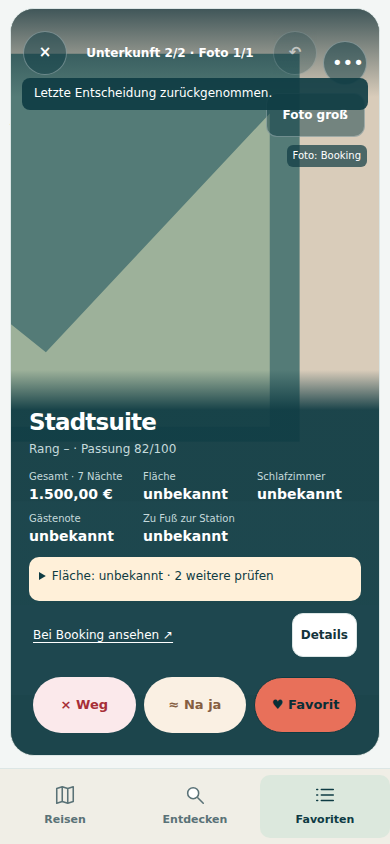
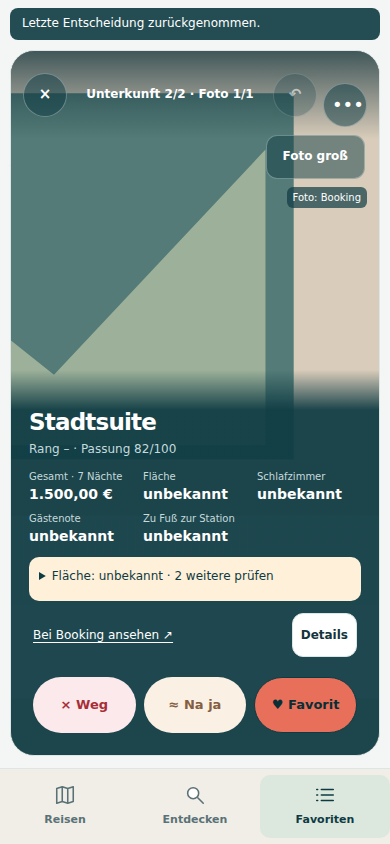
Improve mobile decision controls and photo actions

Changed region(s): [[0.0, 0.0, 0.9846, 0.4929]]

diff --git a/stay-workplace.js b/stay-workplace.js
@@ -24,7 +24,9 @@ async function viewDecisionPlace(arg){
   const tabs=el('div',{class:'actions','aria-label':'Entscheidungsgruppen'});
   const modeButtons=el('div',{class:'actions','aria-label':'Ansichten'},...['list','table','tinder'].map(key=>button({list:'Liste',table:'Tabelle',tinder:'Durchsehen'}[key],()=>{if(pending||review?.pending)return;mode=key;draw();})));
   const sorting=el('select',{'aria-label':'Entscheidungen sortieren',onchange:e=>{sortKey=e.target.value;draw();}},...['rang','preis','name','m2','schlafzimmer'].map(k=>el('option',{value:k},{rang:'Empfohlene Rangfolge',preis:'Gesamtpreis',name:'Name',m2:'Fläche',schlafzimmer:'Schlafzimmer'}[k])));
-  scope.append(el('a',{href:'#/reisen/'+r.etappe.reise_id},'← Zur Reise'),el('h2',{},r.etappe.ziel),el('p',{},fmtDate(r.etappe.anreise)+'–'+fmtDate(r.etappe.abreise)),tabs,modeButtons,el('label',{},'Sortieren nach',sorting),toolbar,status,content,el('div',{class:'actions'},reload,button('Woanders gebucht',()=>tripExternalBooking(r.etappe,()=>render())),button('Suche auffrischen',()=>tripRefresh(r.etappe)),button('Keiner passt',()=>{
+  const controls=el('div',{class:'decision-controls'}),sortLabel=el('label',{},'Sortieren',sorting);
+  controls.append(tabs,modeButtons,sortLabel,toolbar);
+  scope.append(el('a',{href:'#/reisen/'+r.etappe.reise_id},'← Zur Reise'),el('h2',{},r.etappe.ziel),el('p',{},fmtDate(r.etappe.anreise)+'–'+fmtDate(r.etappe.abreise)),controls,status,content,el('div',{class:'actions'},reload,button('Woanders gebucht',()=>tripExternalBooking(r.etappe,()=>render())),button('Suche auffrischen',()=>tripRefresh(r.etappe)),button('Keiner passt',()=>{
     const {body}=tripDialog('Andere Unterkunft finden');body.append(el('p',{},'Deine bisherigen Entscheidungen bleiben erhalten.'),button('Kriterien ändern und neu suchen',()=>tripStart(r.etappe)),button('Andere Tage als Variante suchen',()=>tripStart(r.etappe)));
   })));
   scope.append(tripPhotos(r.etappe.id,live));
@@ -57,8 +59,9 @@ async function viewDecisionPlace(arg){
   }
   function draw(){
     tabs.replaceChildren(...Object.entries(labels).map(([key,label])=>el('button',{type:'button','aria-pressed':group===key,onclick:()=>{if(pending||review?.pending)return;group=key;selected.clear();draw();}},`${label} (${snapshot.treffer.filter(t=>t.status===key).length})`)));
+    modeButtons.querySelectorAll('button').forEach((b,i)=>b.setAttribute('aria-pressed',String(['list','table','tinder'][i]===mode)));
     const current=rows();undo.hidden=!lastBatch.length;toolbar.replaceChildren(button(selecting?'Auswahl schließen':'Auswählen',()=>{selecting=!selecting;selected.clear();draw();}),...(selecting?[button('Alle '+current.length+' auswählen',()=>{current.forEach(t=>selected.add(t.treffer_id));draw();}),el('span',{},selected.size+' ausgewählt')]:[]),...(selected.size?Object.entries(labels).filter(([key])=>key!==group).map(([key,label])=>el('button',{type:'button',onclick:()=>bulk(key)},'Auswahl zu '+label)):[]),...(selected.size?[el('button',{type:'button',disabled:selected.size<2||selected.size>4,onclick:()=>tripCompare(snapshot.treffer.filter(t=>selected.has(t.treffer_id)))},'Vergleichen (2–4)'),button('Lage vergleichen',()=>tripSelectionMap(snapshot.treffer.filter(t=>selected.has(t.treffer_id))))]:[]),undo);
-    if(mode!=='tinder'){scope.insertBefore(tabs,toolbar);scope.insertBefore(modeButtons,toolbar);}
+    if(mode!=='tinder'){controls.insertBefore(tabs,sortLabel);controls.insertBefore(modeButtons,sortLabel);}
     content.replaceChildren();scope.classList.toggle('tinder-mode',mode==='tinder');toolbar.hidden=mode==='tinder';
     if(mode==='tinder'){review.draw();content.append(review.node);}
     else if(mode==='table'){

diff --git a/style.css b/style.css
@@ -1006,3 +1006,20 @@ body:has(.tinder-mode) main.view{padding:8px 10px;}
 .stay-photos{margin:16px 0}.stay-photos h4{margin:8px 0}.stay-photo-strip{display:flex;gap:8px}.stay-photo-strip figure{margin:0;min-width:0;flex:1;max-width:180px}.stay-photo-strip figure>button:first-child{padding:0;width:100%;overflow:hidden;border-radius:12px}.stay-photo-strip img{display:block;width:100%;height:100px;object-fit:cover}.stay-photo-strip figure>button:last-child{font-size:12px;padding:8px 4px;width:100%}.photo-file-input{display:none}.stay-photo-viewer img{display:block;max-width:100%;max-height:75dvh;object-fit:contain;margin:auto}.past-stays{margin-top:22px}.past-stays>summary{font-size:18px;font-weight:700;padding:16px;border-radius:14px;background:#e5eeeb;cursor:pointer}.past-stays .trip-stage{margin-top:12px}.booking-note{white-space:pre-wrap;overflow-wrap:anywhere}
 
 .stay-photos .actions{display:flex;flex-wrap:wrap;gap:8px}.stay-photos .actions button{flex:1;min-width:0;font-size:13px;padding:10px}
+
+/* W89: compact decision controls; feedback stays outside photo controls. */
+.decision-controls{display:grid;grid-template-columns:minmax(0,1fr) auto;gap:6px 8px;margin:12px 0}
+.decision-controls>[aria-label]{grid-column:1/-1;margin:0}
+.decision-controls>label{display:flex;align-items:center;gap:6px;min-width:0;margin:0;font-size:12px}
+.decision-controls>label select{flex:1;width:0;min-width:0;min-height:44px;margin:0;padding:6px;font-size:13px}
+.decision-controls>.actions:not([aria-label]){margin:0;align-self:center}
+.decision-controls>.actions:not([aria-label]):has(button:nth-child(3)){grid-column:1/-1}
+.decision-controls button{min-height:44px}
+.decision-controls [aria-label="Ansichten"] button[aria-pressed="true"]{background:#0e3b43;color:white;border-color:#0e3b43}
+.decision-place>p[role="status"]:empty{display:none}
+.decision-place>h2{margin:6px 0 2px}
+.decision-place>h2+p{font-size:13px;margin:0 0 6px}
+.tinder-mode .review-message:not(:empty){position:static;flex:0 0 auto;margin:0 0 6px;padding:8px 12px;pointer-events:none;z-index:auto}
+.stay-photo-strip figure{position:relative}
+.stay-photo-strip figure>.photo-remove:last-child{position:absolute;top:4px;right:4px;width:44px;height:44px;min-height:44px;padding:0;border-radius:50%;background:#0e3b43e8;color:white;border:1px solid #ffffff99;font-size:24px;line-height:1}
+.stay-photos .actions button:last-child{background:transparent;border-color:transparent;text-decoration:underline;font-weight:400}

diff --git a/index.html b/index.html
@@ -14,22 +14,22 @@
 <link rel="icon" href="icon.svg" type="image/svg+xml">
 <link rel="apple-touch-icon" href="icon-180.png">
 <link rel="stylesheet" href="vendor/leaflet-1.9.4/leaflet.css">
-<link rel="stylesheet" href="style.css?v=0.21.0">
+<link rel="stylesheet" href="style.css?v=0.21.1">
 <script src="https://cdnjs.cloudflare.com/ajax/libs/marked/15.0.7/marked.min.js" defer></script>
 <script src="vendor/leaflet-1.9.4/leaflet.js" defer></script>
-<script src="stay-tools.js?v=0.21.0" defer></script>
-<script src="stay-research.js?v=0.21.0" defer></script>
-<script src="stay-form.js?v=0.21.0" defer></script>
-<script src="stay-details.js?v=0.21.0" defer></script>
-<script src="stay-districts.js?v=0.21.0" defer></script>
-<script src="stay-review.js?v=0.21.0" defer></script>
-<script src="stay-photos.js?v=0.21.0" defer></script>
-<script src="stay-trips.js?v=0.21.0" defer></script>
-<script src="stay-compare.js?v=0.21.0" defer></script>
-<script src="stay-refresh.js?v=0.21.0" defer></script>
-<script src="stay-workplace.js?v=0.21.0" defer></script>
-<script src="stay-notifications.js?v=0.21.0" defer></script>
-<script src="app.js?v=0.21.0" defer></script>
+<script src="stay-tools.js?v=0.21.1" defer></script>
+<script src="stay-research.js?v=0.21.1" defer></script>
+<script src="stay-form.js?v=0.21.1" defer></script>
+<script src="stay-details.js?v=0.21.1" defer></script>
+<script src="stay-districts.js?v=0.21.1" defer></script>
+<script src="stay-review.js?v=0.21.1" defer></script>
+<script src="stay-photos.js?v=0.21.1" defer></script>
+<script src="stay-trips.js?v=0.21.1" defer></script>
+<script src="stay-compare.js?v=0.21.1" defer></script>
+<script src="stay-refresh.js?v=0.21.1" defer></script>
+<script src="stay-workplace.js?v=0.21.1" defer></script>
+<script src="stay-notifications.js?v=0.21.1" defer></script>
+<script src="app.js?v=0.21.1" defer></script>
 </head>
 <body>
 

diff --git a/stay-photos.js b/stay-photos.js
@@ -22,7 +22,7 @@ function tripPhotos(etappeId,live,{initialPhotos=null}={}){
  function url(value){try{const u=new URL(value);return u.protocol==='https:'&&!u.username&&!u.password?u.href:null;}catch{return null;}}
  function photoImage(p){return el('img',{src:url(p.url),alt:p.titel||'Aufenthaltsfoto',loading:'lazy',referrerpolicy:'no-referrer',onerror:()=>{if(!active())return;if(!refreshUsed&&!pending){refreshUsed=true;void load(false);}else message.textContent='Foto nicht verfügbar. Bitte Fotos neu laden.';}});}
  function show(p){viewer?.d.close();viewedId=p.foto_id;viewer=tripDialog(p.titel||'Aufenthaltsfoto');viewer.body.append(photoImage(p));viewer.d.classList.add('stay-photo-viewer');viewer.d.addEventListener('close',()=>{viewer=null;viewedId=null;});}
- function draw(){list.replaceChildren(...photos.map(p=>el('figure',{},el('button',{type:'button','aria-label':'Foto groß öffnen',onclick:()=>show(p)},photoImage(p)),el('button',{type:'button',onclick:()=>remove(p)},'Foto löschen'))));controls();
+ function draw(){list.replaceChildren(...photos.map(p=>el('figure',{},el('button',{type:'button','aria-label':'Foto groß öffnen',onclick:()=>show(p)},photoImage(p)),el('button',{type:'button',class:'photo-remove','aria-label':'Foto löschen',onclick:()=>remove(p)},'×'))));controls();
   if(viewer){const p=photos.find(p=>p.foto_id===viewedId);if(p)viewer.body.replaceChildren(photoImage(p));else viewer.d.close();}
  }
  async function load(manual=false,initial=false){if(pending||!active())return;pending=true;if(manual)refreshUsed=false;controls();message.textContent='Fotos werden geladen …';

diff --git a/sw.js b/sw.js
@@ -1,7 +1,7 @@
 // Service Worker: hält nur die App-Hülle vor (Dateien dieser Seite). Daten kommen immer live von app-api.
 const CACHE_PREFIX = 'ki-system:' + self.registration.scope + ':';
-const CACHE = CACHE_PREFIX + 'v33';
-const HUELLE = ['./', './index.html', './stay-compare.js?v=0.21.0', './stay-refresh.js?v=0.21.0', './stay-workplace.js?v=0.21.0', './stay-notifications.js?v=0.21.0', './stay-photos.js?v=0.21.0', './stay-trips.js?v=0.21.0', './stay-review.js?v=0.21.0', './app.js?v=0.21.0', './stay-tools.js?v=0.21.0', './stay-research.js?v=0.21.0', './stay-form.js?v=0.21.0', './stay-details.js?v=0.21.0', './stay-districts.js?v=0.21.0', './vendor/leaflet-1.9.4/leaflet.js', './vendor/leaflet-1.9.4/leaflet.css', './style.css?v=0.21.0', './manifest.webmanifest', './icon.svg', './icon-180.png', './icon-512.png'];
+const CACHE = CACHE_PREFIX + 'v34';
+const HUELLE = ['./', './index.html', './stay-compare.js?v=0.21.1', './stay-refresh.js?v=0.21.1', './stay-workplace.js?v=0.21.1', './stay-notifications.js?v=0.21.1', './stay-photos.js?v=0.21.1', './stay-trips.js?v=0.21.1', './stay-review.js?v=0.21.1', './app.js?v=0.21.1', './stay-tools.js?v=0.21.1', './stay-research.js?v=0.21.1', './stay-form.js?v=0.21.1', './stay-details.js?v=0.21.1', './stay-districts.js?v=0.21.1', './vendor/leaflet-1.9.4/leaflet.js', './vendor/leaflet-1.9.4/leaflet.css', './style.css?v=0.21.1', './manifest.webmanifest', './icon.svg', './icon-180.png', './icon-512.png'];
 const HUELLE_URLS = new Set(HUELLE.map(path => new URL(path, self.registration.scope).href));
 
 self.addEventListener('install', (e) => {

diff --git a/app.js b/app.js
@@ -3,7 +3,7 @@
    Schreibende Aktionen laufen nur nach einem Klick von Sebastian. */
 'use strict';
 
-const APP_VERSION = '0.21.0';
+const APP_VERSION = '0.21.1';
 const API = 'https://sdgzwxiqcijxfpcjpydw.supabase.co/functions/v1/app-api';
 const TOKEN_KEY = 'ks_token';
 

diff --git a/docs/W89-ABNAHME.md b/docs/W89-ABNAHME.md
@@ -1,0 +1,12 @@
+# W89 · Mobiler Feinschliff
+
+App 0.21.1, Cache v34. Noch nicht veröffentlicht.
+
+- Favoriten: Gruppen und Ansichten als zwei kompakte Zeilen; Sortierung und Auswahl teilen sich darunter eine Zeile. Aktive Ansicht mit aria-pressed und Petrol-Hintergrund. Sammelauswahl darf bei mehreren Aktionen umbrechen.
+- Durchsehen: Statusmeldung oberhalb der Karte statt über Fotoknöpfen; Menü bleibt anklickbar. Urteilsleiste bleibt erreichbar.
+- Eigene Aufenthaltsfotos: Löschknopf direkt am Foto, zugänglicher Name und vorhandene Bestätigungsabfrage bleiben erhalten. Neuladen als untergeordnete Aktion.
+- Touchflächen mindestens 44 Pixel. Kein Server-/Datenmodellwechsel.
+
+Screenshots mit synthetischen Testdaten: previews/paket-b-entscheidungsplatz-mobile.png, previews/paket-b-durchsehen-mobile.png, previews/w88-fotos-mobile.png.
+
+Bewusst offen für eine weitere Designrunde: mobiler Vergleich nebeneinander, Etappen-Aktionsmenü, Zusammenfassung fehlender Angaben. Dieser PR ist ein kleiner Bedienungsfeinschliff. Live-Login und physisches iPhone in dieser Runde nicht durchgespielt.
